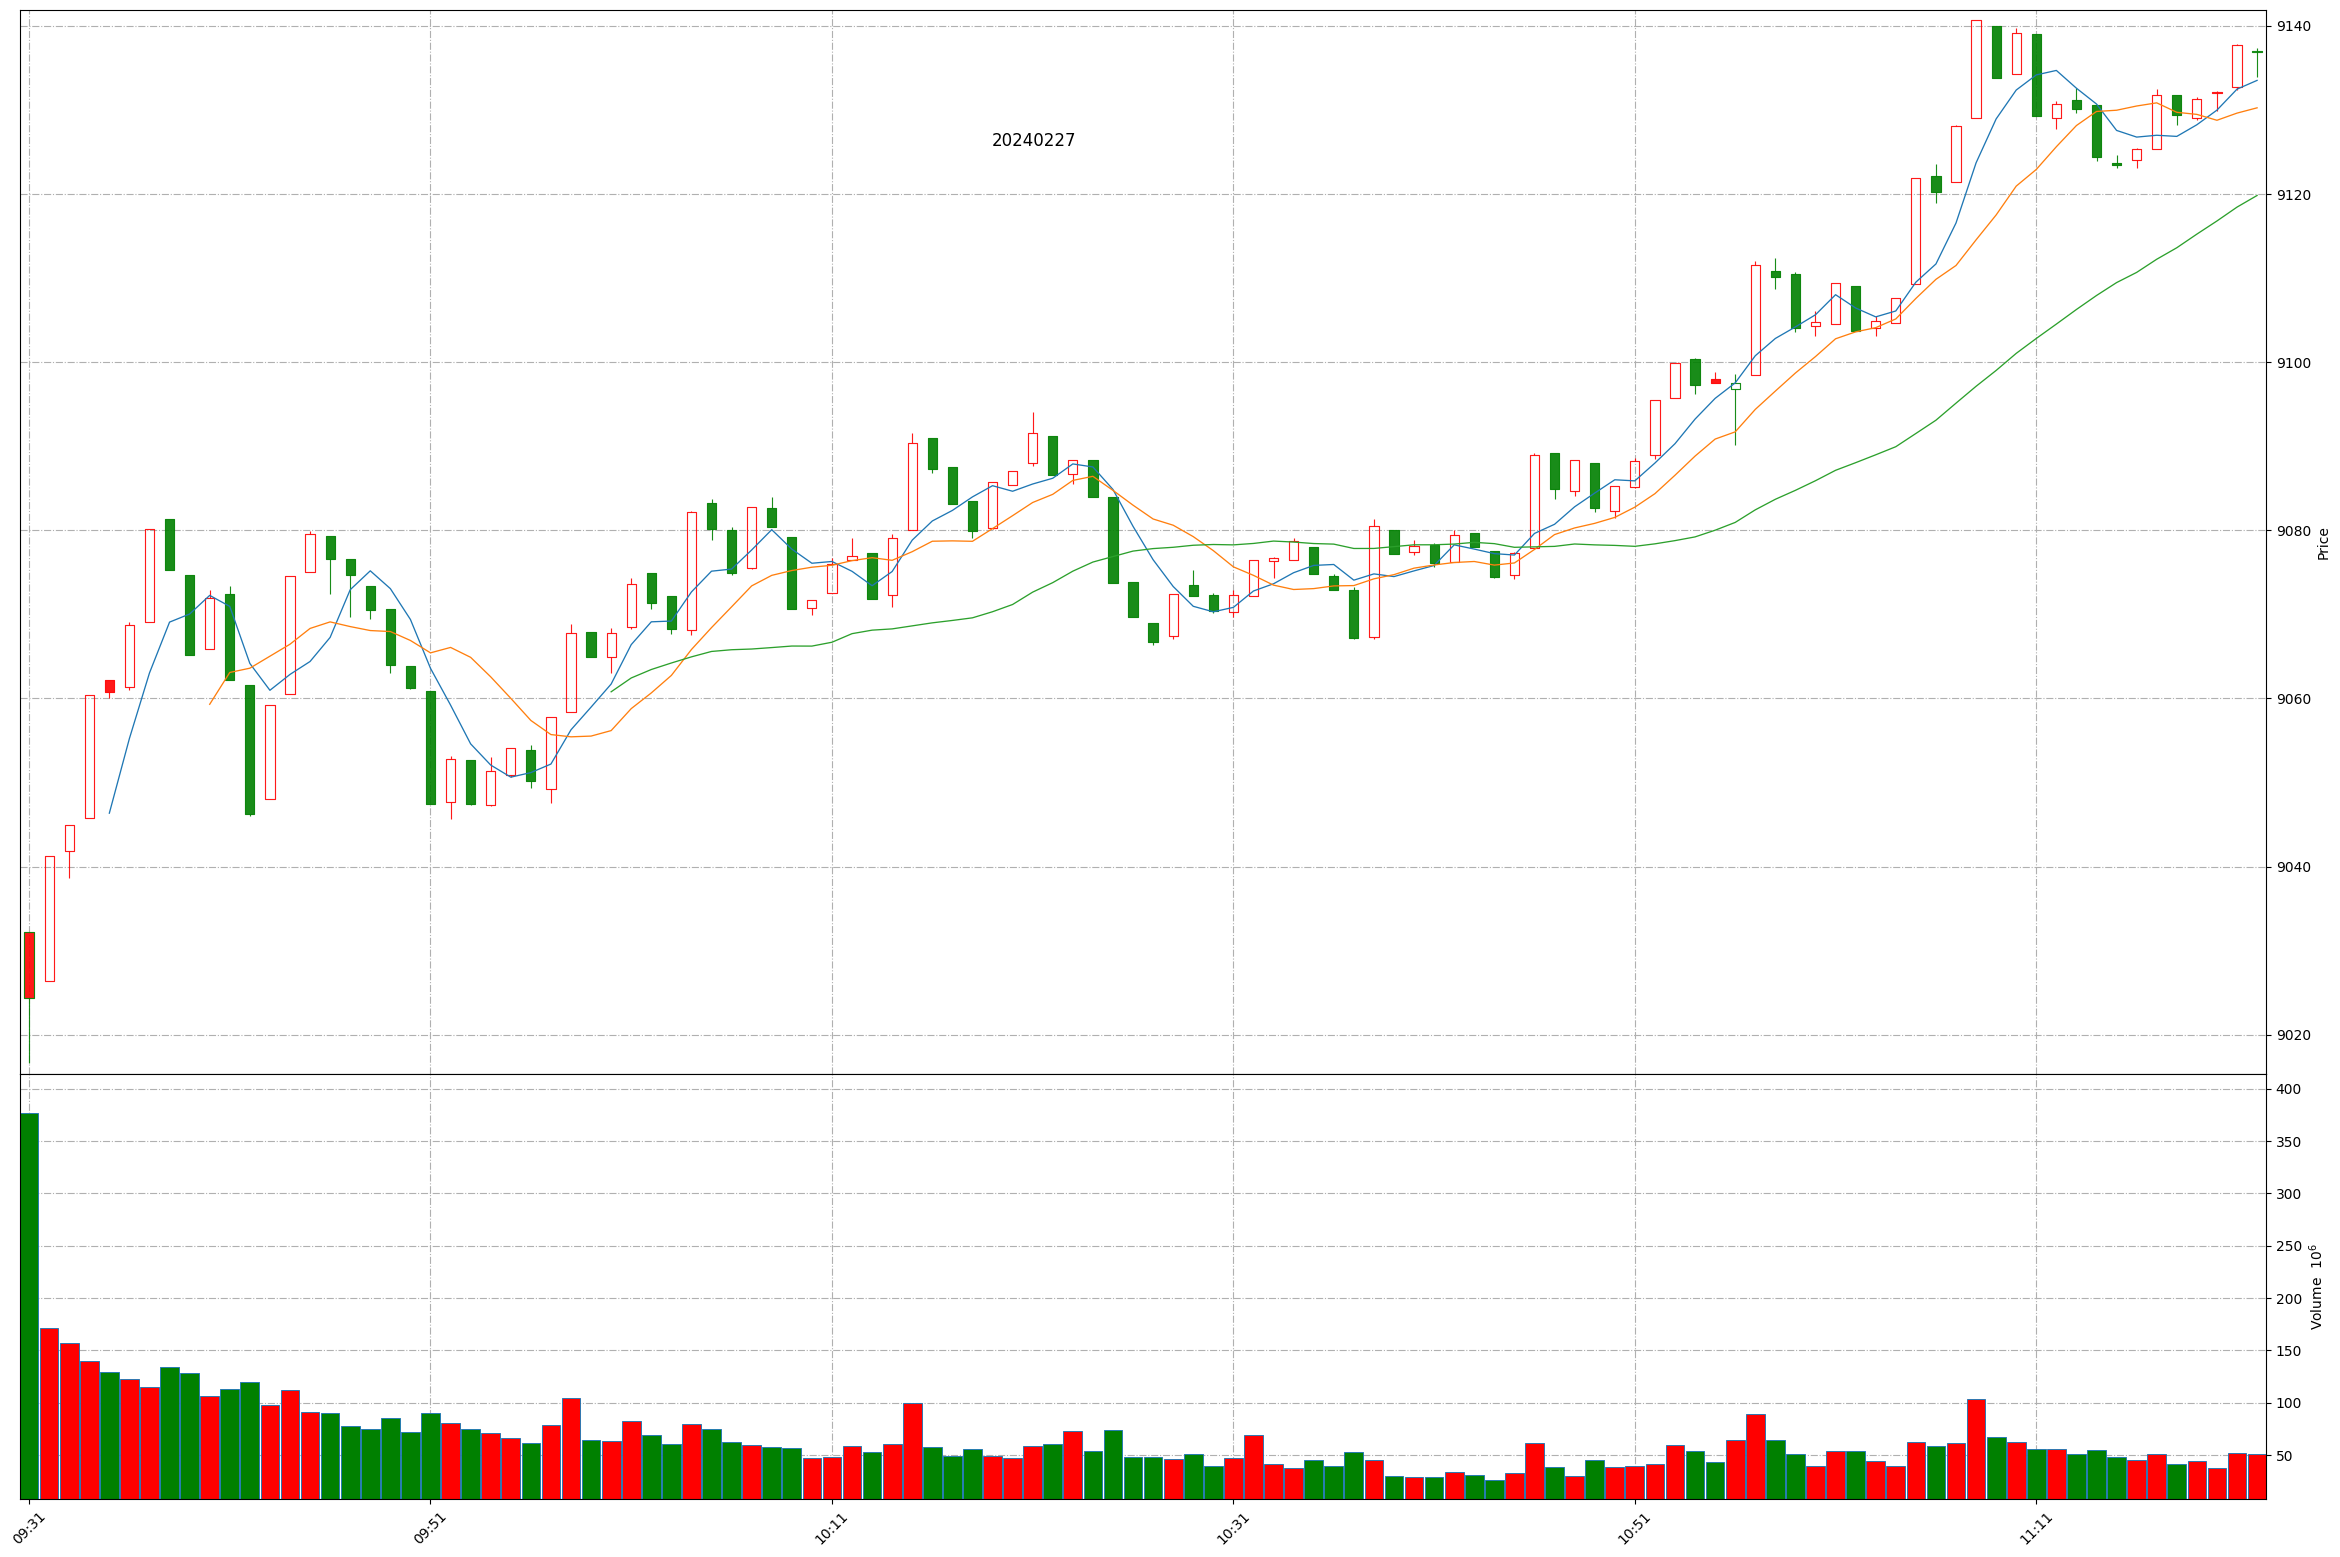
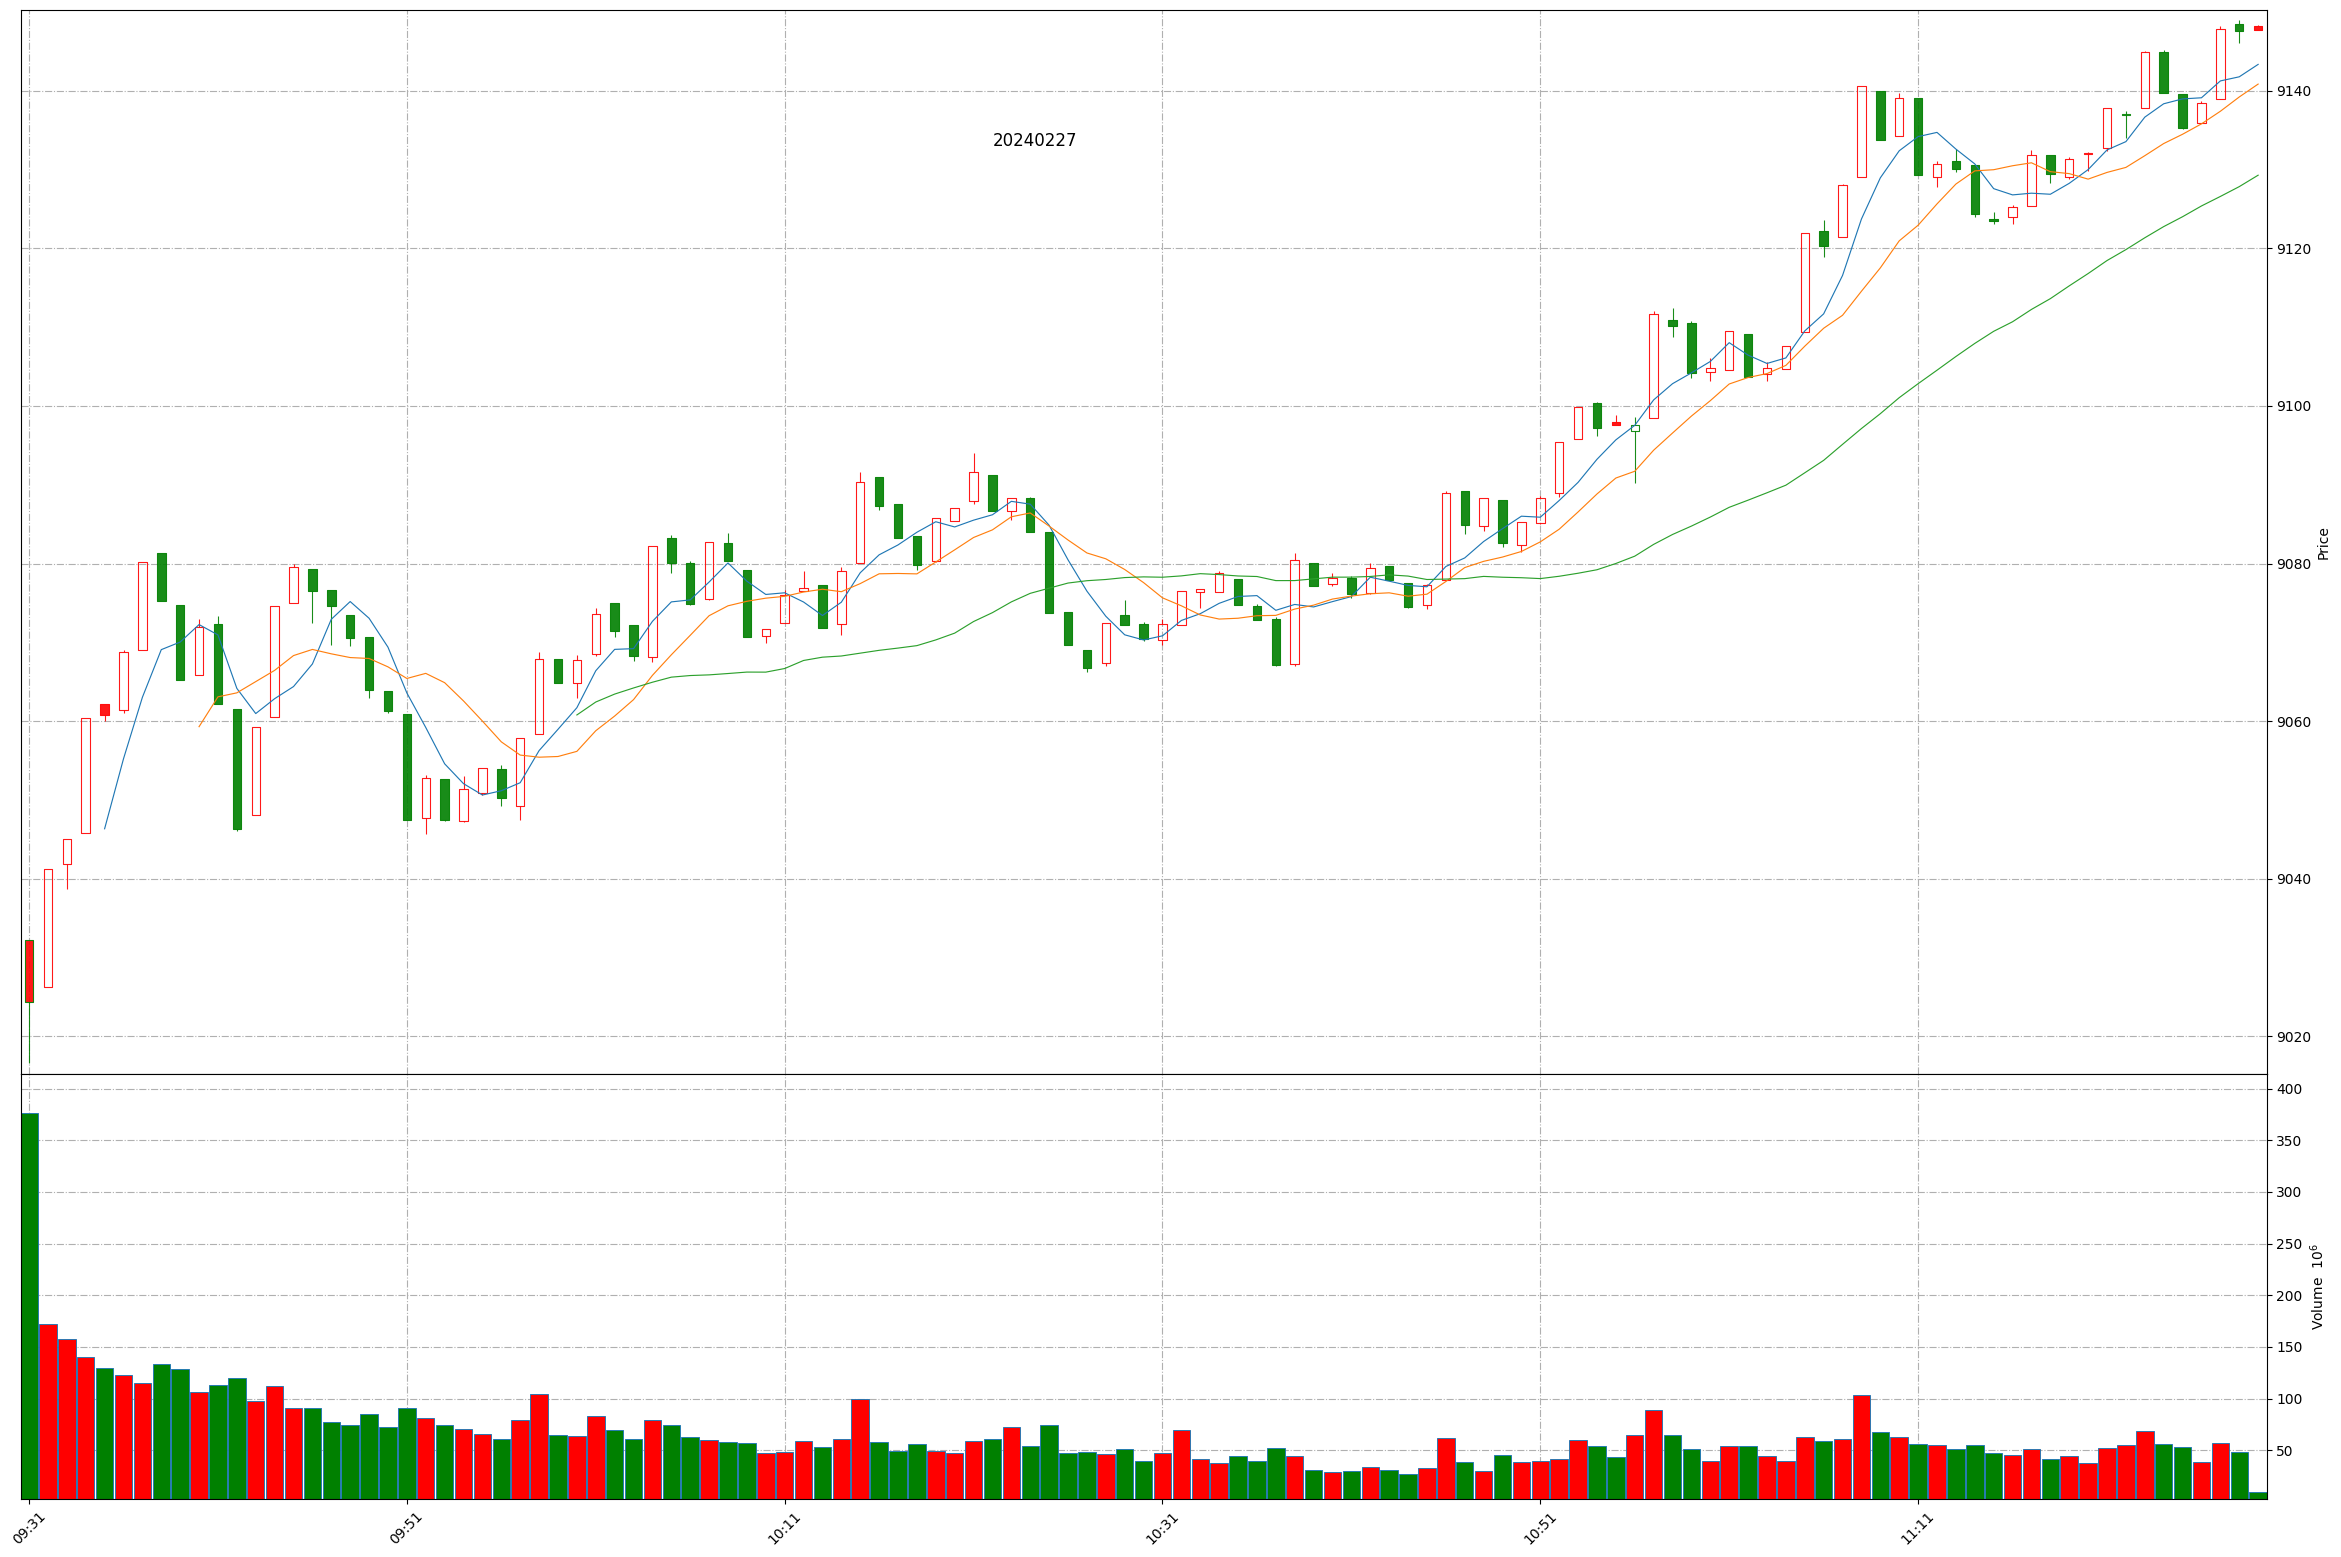
Github action update at 2024-02-27 11:28:27.

diff --git a/README.md b/README.md
@@ -1,11 +1,11 @@
 
 # Daily-A-share-market-quotes 每日 A 股指数（5min 更新）- 20240227
 
-### 上证指数 20240227 11:22
+### 上证指数 20240227 11:28
 ![](./fig/2024/2/20240227-sh000001.png)
 
-### 深证成指 20240227 11:22
+### 深证成指 20240227 11:28
 ![](./fig/2024/2/20240227-sz399001.png)
 
-### 北证50 20240227 11:22
+### 北证50 20240227 11:28
 ![](./fig/2024/2/20240227-bj899050.png)
